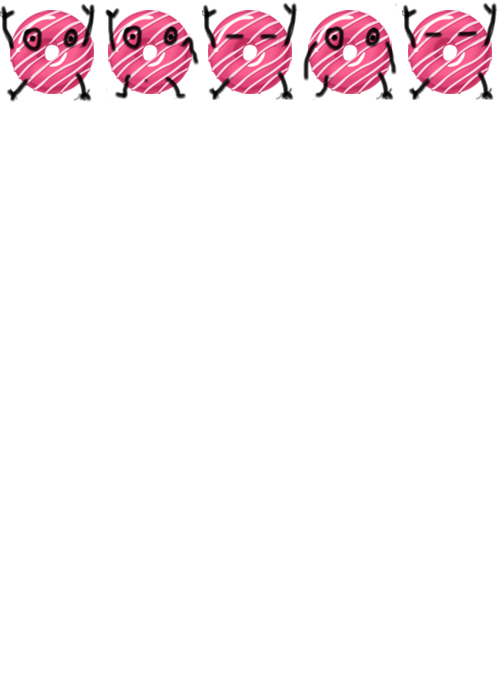
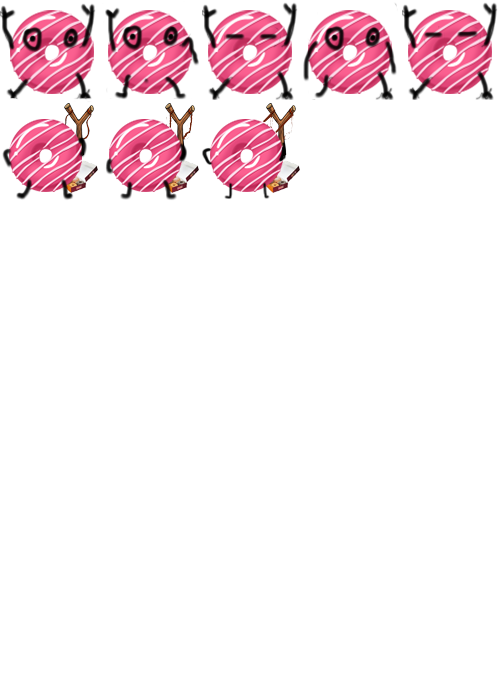
added bullets

Changed region(s): [[0.0, 0.12, 0.6, 0.3]]

diff --git a/public/game.js b/public/game.js
@@ -23,13 +23,22 @@ let enemies;
 let field;
 // let homer;
 let donut;
+let cursors;
+let b1;
+let power = 0;
+let text;
 
 function preload() {
   this.load.spritesheet('subzero', 'assets/sprite.png', { frameWidth: 45, frameHeight: 120 });
   this.load.spritesheet('homer', 'assets/homer.png', { frameWidth: 22, frameHeight: 40 });
   this.load.spritesheet('donut', 'assets/donut.png', { frameWidth: 100, frameHeight: 100 });
   this.load.image('background', 'assets/Simpsons_22_15_P1_640x360_279961667900.jpg');
-  this.load.image('bullet', 'assets/gem-06.png');
+  this.load.image('bullet-type-1', 'assets/gem-01.png');
+  this.load.image('bullet-type-2', 'assets/gem-02.png');
+  this.load.image('bullet-type-3', 'assets/gem-03.png');
+  this.load.image('bullet-type-4', 'assets/gem-04.png');
+  this.load.image('bullet-type-5', 'assets/gem-05.png');
+  this.load.image('bullet-type-6', 'assets/gem-07.png');
 }
 
 function create() {
@@ -67,10 +76,30 @@ function create() {
     yoyo: true
   });
 
+  const donutFightAnimation = this.anims.create({
+    key: 'donut-fight',
+    frames: this.anims.generateFrameNumbers('donut', { start: 5, end: 6 }),
+    frameRate: 5,
+    repeat: -1,
+    yoyo: true
+  });
+
+  const donutShootAnimation = this.anims.create({
+    key: 'donut-shoot',
+    frames: this.anims.generateFrameNumbers('donut', { start: 7, end: 7 }),
+    frameRate: 5,
+    repeat: -1,
+    yoyo: true
+  });
+
   // const sprite = this.add.sprite(120, 240, 'subzero').setScale(4);
   // homer = this.physics.add.sprite(120, 240, 'homer').setScale(4);
   // donut = this.add.sprite(420, 240, 'donut').setScale(0.7);
-  donut = this.physics.add.sprite(420, 240, 'donut').setScale(0.7);
+  donut = this.physics.add.sprite(420, 240, 'donut').setScale(1);
+  // donut.body.allowGravity = false;
+  donut.setCollideWorldBounds(true);
+  donut.setMaxVelocity(500);
+  donut.setFriction(1000, 100);
 
   // homer.setCollideWorldBounds(true);
 
@@ -81,6 +110,17 @@ function create() {
   bullets.enableBody = true;
   bullets.physicsBodyType = Phaser.Physics.ARCADE;
   bullets.createMultiple(5, 'bullet');
+
+
+  for (let i = 0; i < 5; i++) {
+    bullets.create(donut.x, 600, `bullet-type-${i+1}`, null, false);
+  }
+
+  bullets.getChildren().forEach(bullet => {
+    bullet.body.allowGravity = false;
+    bullet.setScale(0.5)
+  });
+
 
   enemies = this.physics.add.group({
     maxSize: 150
@@ -102,16 +142,23 @@ function create() {
     enemy.body.setBounce(1, 0);
 
     setInterval(() => {
-      enemy.y += 5;
+      enemy.y += 1;
     }, 100);
+  }, 1000);
 
-    this.physics.add.overlap(donut, enemy, () => {
+  this.physics.add.overlap(bullets, enemies, (bullet, enemy) => {
+    if (!bullet.active) {
       enemy.destroy();
-    });
-  }, 2000);
+      bullet.active = true;
+      bullet.setPosition(donut.x, donut.y).setVisible(false);
+      setTimeout(() => { // we can kill only 1 enemy
+        bullet.active = false;
+      }, 500);
+    }
+  });
 
   // homer.play('homer-stay');
-  donut.play('donut-move');
+  donut.play('donut-fight');
 
   // bullets.setTypeA().setCheckAgainstB().setActiveCollision().setMaxVelocity(300);
   // donut.setTypeB().setCheckAgainstA().setFixedCollision();
@@ -119,15 +166,67 @@ function create() {
   // bullets.setVelocityX(300);
 
   // bullets.setCollideCallback(() => { alert(); }, this);
-  donut.body.setVelocity(100, 200).setBounce(1, 1).setCollideWorldBounds(true);
+  // donut.body.setVelocity(100, 200).setBounce(1, 1).setCollideWorldBounds(true);
   // this.physics.add.overlap(donut, homer, () => {
   //   homer.destroy();
   // });
+  cursors = this.input.keyboard.createCursorKeys();
+
+  text = this.add.text(10, 70);
+
 }
 
 function update() {
   //  Run collision
   // enemies.setCollideCallback(() => { alert(); }, this);
   // this.physics.world.collide(homer, [ donut ]);
+  text.setText('Power: ' + power);
+  if (cursors.left.isDown) {
+    donut.setAccelerationX(-1200);
+  } else if (cursors.right.isDown) {
+    donut.setAccelerationX(1200);
+  } else {
+    donut.setAccelerationX(0);
+    donut.body.velocity.x = 0;
+  }
+
+  if (cursors.space.isDown) {
+    power += 10;
+  }
+
+  if (power > 0 && donut.anims.getCurrentKey() != 'donut-shoot') {
+    donut.play('donut-shoot');
+  }
+
+  if (cursors.space.isUp && power > 0) {
+    donut.play('donut-fight');
+
+    let activeBullet = bullets.getFirstAlive();
+
+    if (!activeBullet) {
+      return;
+    }
+
+    activeBullet.x = donut.x;
+    activeBullet.y = donut.y;
+    activeBullet.active = false;
+    activeBullet.visible = true;
+
+    // activeBullet.x = donut.x
+    this.tweens.add({
+      targets: activeBullet,//[Phaser.Math.Between(1, 5)],
+      props: {
+        y: { value: 600 - power, duration: 350},
+      },
+      ease: 'Sine.easeInOut',
+      onComplete: () => {
+        setTimeout(() => {
+          activeBullet.active = true;
+        }, 3000);
+        activeBullet.setVisible(false).setPosition(donut.x, donut.y);
+      }
+    });
+    power = 0;
+  }
 
 }
